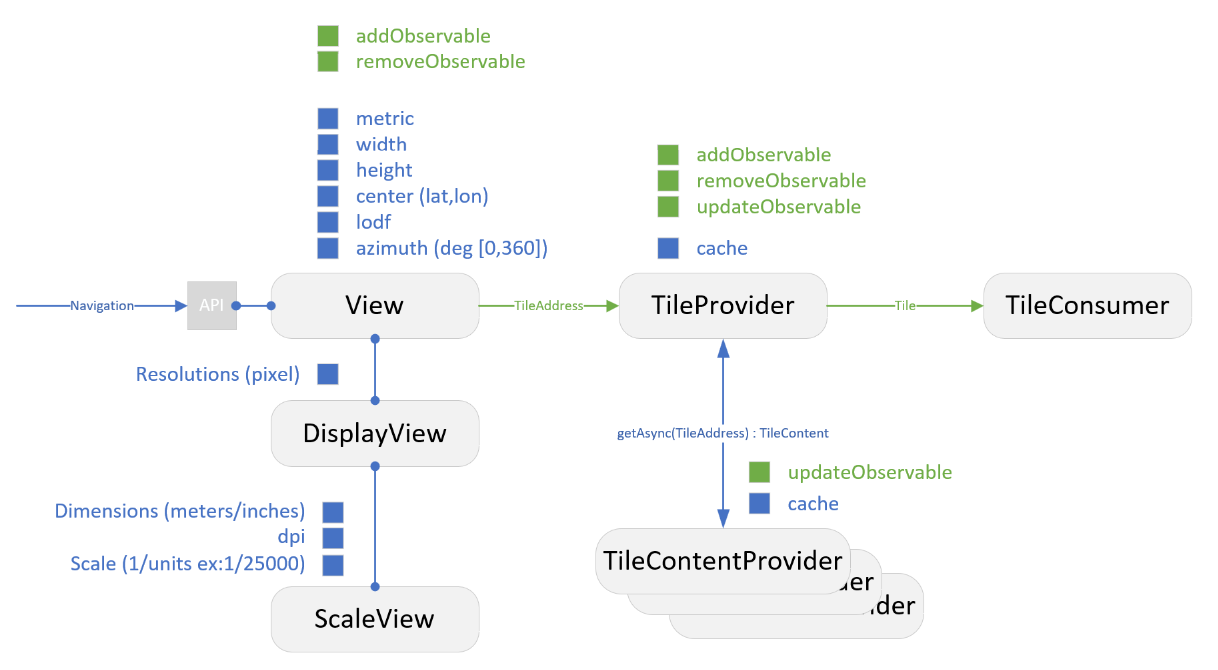
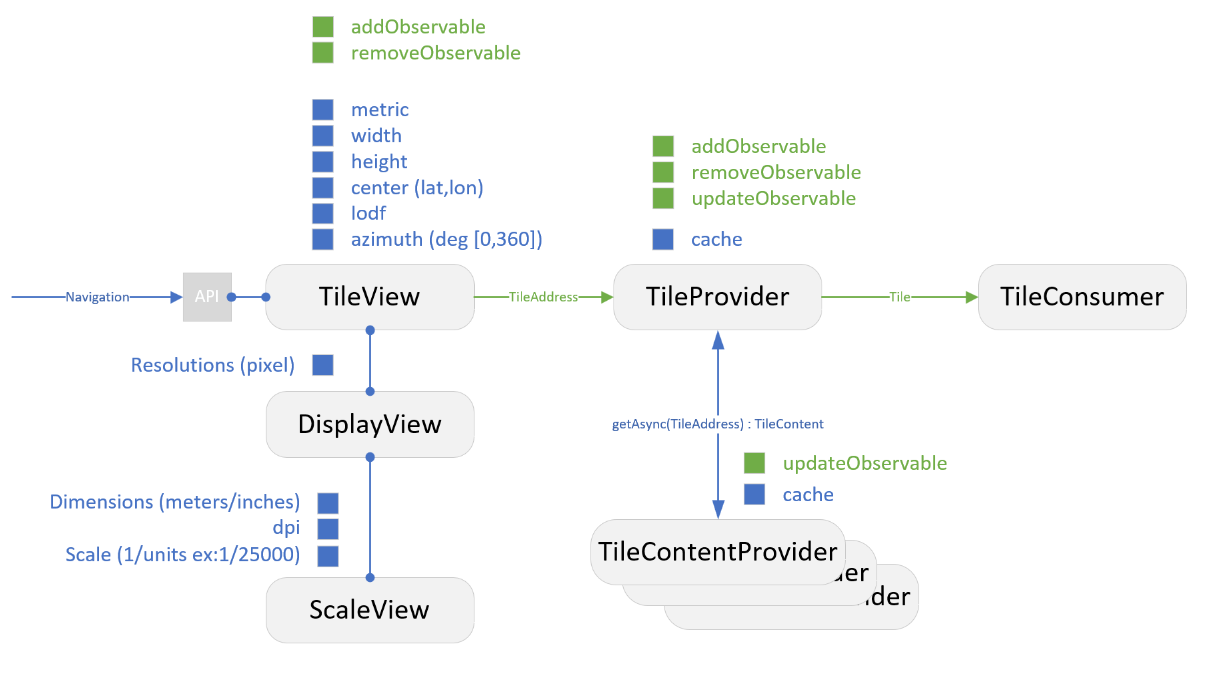
rename ITileView

diff --git a/packages/dev/core/src/tiles/tiles.interfaces.pipeline.ts b/packages/dev/core/src/tiles/tiles.interfaces.pipeline.ts
@@ -75,7 +75,7 @@ export interface ITileContentProvider<T> extends ITileMetricsProvider, IPipeline
     getTileContent(address: ITileAddress): Nullable<TileContent<T>>;
 }
 
-type PipelineType = IMapView | ITileProvider<any>;
+type PipelineType = ITileView | ITileProvider<any>;
 type PipelineValue = ITileAddress | ITile<any>[];
 
 /// <summary>
@@ -109,7 +109,7 @@ export class TilePipelineEventArgs extends EventArgs<PipelineType> {
 ///   and 'Removed' TileAddresses, allowing other components of the system to react and update accordingly. This feature is vital for ensuring that the system remains dynamic
 ///   and responsive to changes, such as user navigation or zoom adjustments.
 /// </summary>
-export interface IMapView extends ITileMapApi, IPipelineComponent {
+export interface ITileView extends ITileMapApi, IPipelineComponent {
     addressAddedObservable: Observable<TilePipelineEventArgs>;
     addressRemovedObservable: Observable<TilePipelineEventArgs>;
 }
